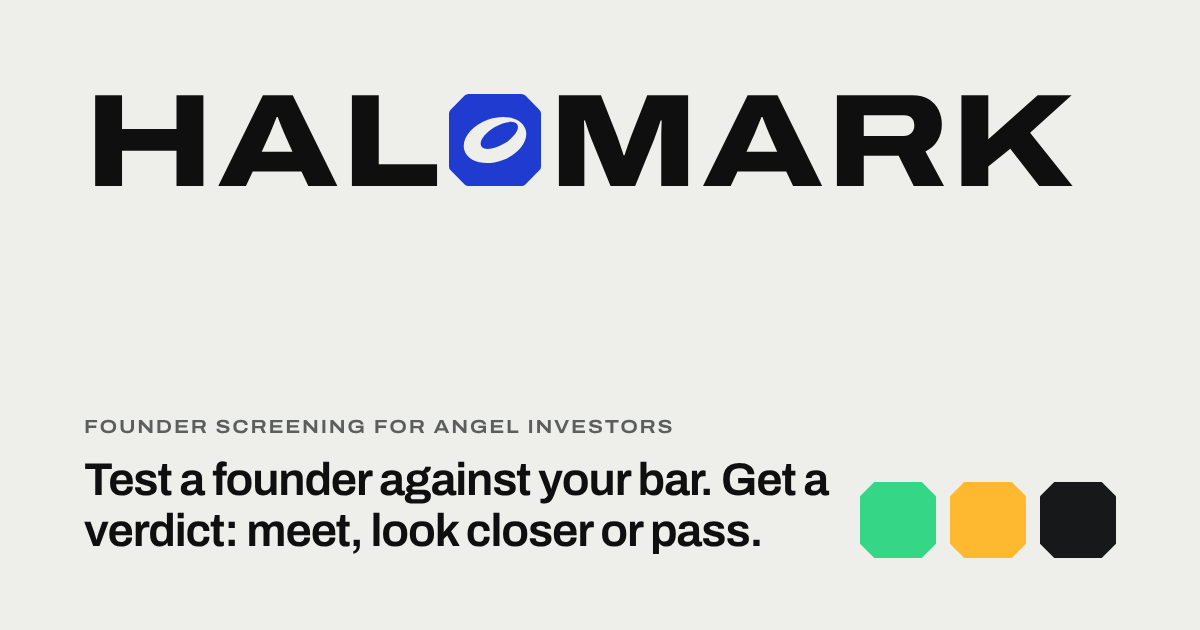
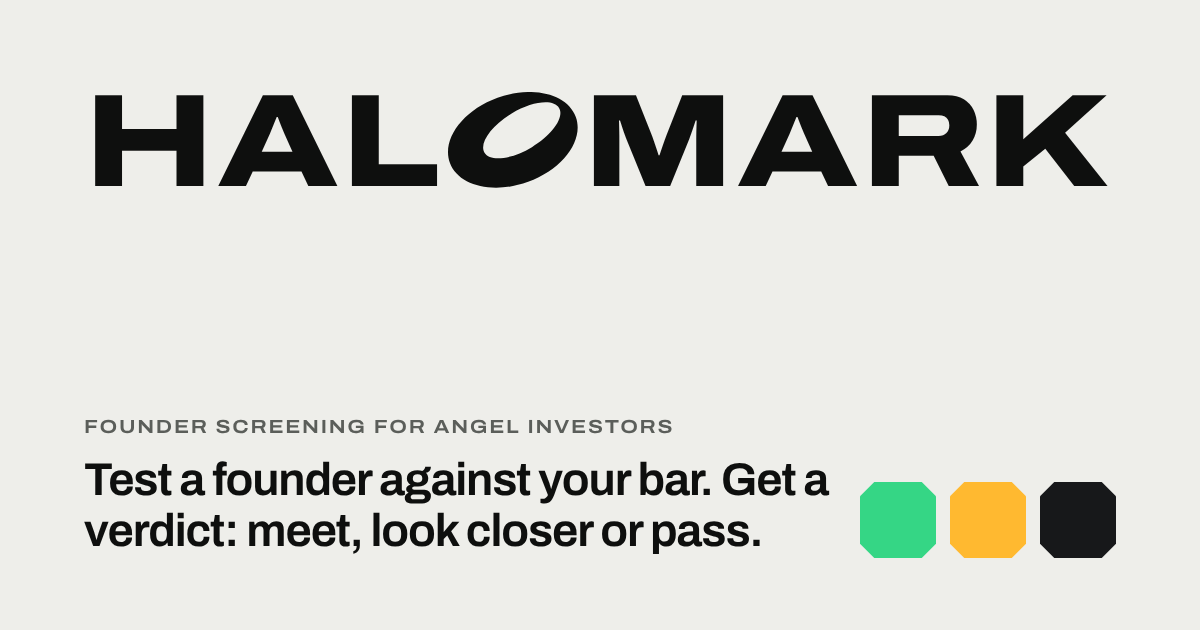
Wordmark: the halo alone as the O, in the text colour
Owner's call: the blue boxed mark stays the app icon, but inside the app
the O of HALOMARK is the bare halo in ink (paper on dark), cleaner in the
header. The halo is cropped to its own bounds and sized like Archivo's O
(cap height plus overshoot). The not-found page and the link-preview
image follow; About still shows the boxed mark where it explains the name.
Screenshots in app/media/09-wordmark-plain-halo.

Claude-Session: https://claude.ai/code/session_018ARa1fSWv5hGJTwrwEkbAE

Changed region(s): [[0.37, 0.1206, 0.925, 0.3016]]

diff --git a/app/frontend/src/app/globals.css b/app/frontend/src/app/globals.css
@@ -6,8 +6,9 @@
   widths: extra-condensed for the big figures, normal for reading, wide capitals for small labels.
   Colour is saved for the verdict: a full-colour slab (green, amber or ink) carries the decision,
   everything around it stays black on paper. Buttons and selections are ink, not a brand hue.
-  The brand is the stamp on the slip: stamp-pad blue (--brand) appears only in the mark, never on
-  controls or verdicts, and the hallmark's cut-corner punch (.punch) is the shape a verdict is struck in.
+  The brand is the stamp on the slip. In the app the name is set in ink with the halo as its O; the full
+  mark (the halo struck into a cut-corner punch, in stamp-pad blue, --brand) is the app icon, and appears
+  in the app only where the About page explains the name. Verdicts are struck in the punch shape (.punch).
   Verdicts always come with an icon and a label; charts keep the validated ramps (dataviz skill).
 */
 :root {
@@ -232,7 +233,7 @@ textarea {
     line-height: 1.2;
     text-transform: uppercase;
   }
-  /* The wordmark: Archivo at its widest, in capitals, with the mark standing in for the O. */
+  /* The wordmark: Archivo at its widest, in capitals, with the halo standing in for the O, in the text colour. */
   .wordmark {
     display: inline-flex;
     align-items: baseline;
@@ -244,10 +245,13 @@ textarea {
     white-space: nowrap;
   }
   .wordmark svg {
-    /* Archivo's capital height, so the punch sits on the baseline and stops at the cap line */
-    width: 0.697em;
-    height: 0.697em;
-    margin: 0 0.05em 0 0.055em;
+    /* Archivo's capital height (0.697em) plus a round letter's overshoot above and below the lines;
+       a flex item's baseline is its bottom edge, so it's moved down by the lower overshoot */
+    height: 0.725em;
+    width: calc(0.725em * 1.355);
+    margin: 0 0.04em 0 0.045em;
+    position: relative;
+    top: 0.014em;
     flex: none;
   }
   /* A hallmark punch: a square with its corners cut. Verdict tiles are struck in this shape. */

diff --git a/app/frontend/src/components/ui.tsx b/app/frontend/src/components/ui.tsx
@@ -5,7 +5,7 @@ import Link from "next/link";
 import { useEffect, useRef, useState, type ReactNode } from "react";
 
 import { IconAlert, IconArrowUpRight, IconChevronLeft, IconMinus, IconX } from "@/components/icons";
-import { MARK_PATH, MARK_SIZE } from "@/lib/mark";
+import { HALO_VIEWBOX, MARK_HALO, MARK_PATH, MARK_SIZE } from "@/lib/mark";
 import type { Decision } from "@/lib/types";
 
 export function cx(...parts: (string | false | null | undefined)[]): string {
@@ -379,14 +379,24 @@ export function Logo({ size = 32, className }: { size?: number; className?: stri
   );
 }
 
-/** The name with the mark as its O. `size` is the type size in pixels. */
+/** The halo on its own, in the current text colour: the O of the wordmark. Height sets its size. */
+export function Halo({ className, style }: { className?: string; style?: React.CSSProperties }) {
+  return (
+    <svg viewBox={HALO_VIEWBOX} className={className} style={style} aria-hidden>
+      <path d={MARK_HALO} fill="currentColor" fillRule="evenodd" />
+    </svg>
+  );
+}
+
+/**
+ * The name with the halo as its O, all in the text colour. Inside the app the halo stands alone; the
+ * punch around it belongs to the app icon. `size` is the type size in pixels.
+ */
 export function Wordmark({ size = 17 }: { size?: number }) {
   return (
     <span role="img" aria-label="Halomark" className="wordmark" style={{ fontSize: size }}>
       <span aria-hidden>HAL</span>
-      <svg viewBox={`0 0 ${MARK_SIZE} ${MARK_SIZE}`} className="text-brand" aria-hidden>
-        <path d={MARK_PATH} fill="currentColor" fillRule="evenodd" />
-      </svg>
+      <Halo />
       <span aria-hidden>MARK</span>
     </span>
   );

diff --git a/app/frontend/src/lib/mark.ts b/app/frontend/src/lib/mark.ts
@@ -25,6 +25,12 @@ export const MARK_HALO = MARK_HALO_OUTER + MARK_HALO_INNER;
 /** The whole mark in one colour (the halo is cut out of the punch): fill with fill-rule="evenodd". */
 export const MARK_PATH = MARK_PUNCH + MARK_HALO;
 
+/**
+ * The halo's own bounds (the outer ellipse, measured): use as the viewBox when the halo stands alone as a
+ * letter, the O of the wordmark. Wider than tall (1.355 : 1), like Archivo's wide O.
+ */
+export const HALO_VIEWBOX = "10.24 15.94 43.52 32.12";
+
 /** Brand colours: stamp-pad blue on paper. Kept here for the icons; the app reads them from globals.css. */
 export const BRAND_BLUE = "#1f3bd0";
 export const BRAND_BLUE_ON_DARK = "#8fa0ff";

diff --git a/app/frontend/src/app/not-found.tsx b/app/frontend/src/app/not-found.tsx
@@ -1,12 +1,12 @@
 import Link from "next/link";
 
-import { Logo, Page, PageHeader, linkClass } from "@/components/ui";
+import { Halo, Page, PageHeader, linkClass } from "@/components/ui";
 
 export default function NotFound() {
   return (
     <Page>
       <div className="pt-16">
-        <Logo size={40} className="mb-6" />
+        <Halo className="mb-6 h-8 w-auto text-ink" />
         <PageHeader title="Not found" subtitle="This page doesn't exist, or the memo has expired. Memos are kept only for a while." />
         <Link href="/" className={linkClass}>
           Back to your founders

diff --git a/app/media/README.md b/app/media/README.md
@@ -119,7 +119,7 @@ Contents of each version folder:
   - `capture-test-2x.jpg`, the test frame that showed the 2× capture works
 - `v4-halomark/`: the video, a strip of stills and one full-size frame at 1s
 
-## 08-halomark-brand (16:30–16:40) · Current
+## 08-halomark-brand (16:30–16:40) · Current for the app icon; the in-app wordmark changed in 09
 
 The product was renamed **Halomark**: a halo for angels, and close to *hallmark*, the stamp that certifies tested gold.
 A Claude Fable 5.2 design agent made the identity.
@@ -142,7 +142,19 @@ A Claude Fable 5.2 design agent made the identity.
 - `desktop-home-light.png`, `desktop-home-dark.png`
 - **Sent:** `brand-board.png`, `directions.png`, `phone-home-light.png`, `phone-memo-dark.png`, `phone-about-name-light.png`
 
-## tools
+## 09-wordmark-plain-halo (16:55–17:05) · Current
+
+The owner's change: the app icon keeps the halo in its blue octagonal punch, but inside the app the O of
+HALOMARK is the halo alone, in the same colour as the letters.
+- `phone-header-*.png`, `desktop-sidebar-*.png`: the wordmark at its real sizes (17px on phones, 21px on desktop), light and dark
+- `phone-home-*.png`, `desktop-home-*.png`: the whole home screen with it
+- `phone-not-found-*.png`: the not-found page, which now shows the halo instead of the boxed mark
+- `wordmark-large-vs-real-O.png`: the wordmark at 120px above Archivo's own O, used to match the halo's height and overshoot to a real letter
+- `link-preview-image.png`: the link-preview image, regenerated with the same wordmark
+- **Sent:** `phone-header-light.png`, `desktop-sidebar-dark.png`, `phone-home-dark.png`, `wordmark-large-vs-real-O.png`
+
+The walk-through video (07, v4) and the brand board (08) still show the earlier boxed O in the header.
+
 
 - `record-walkthrough.cjs`: the script that recorded v3 and v4, with the ffmpeg command in its header, so the video can be re-shot after design changes
 - `walkthrough-batch.csv`: the three example founders it pastes into "Screen a list"

diff --git a/app/README.md b/app/README.md
@@ -75,9 +75,10 @@ on phones, a sidebar on desktop, light and dark themes):
   skill's palette validator against both themes' surfaces.
 - **Brand: Halomark** (renamed from Screener on 2026-11-14; identity by a Claude Fable 5.2 design pass). The mark is a
   hallmark punch (the cut-corner stamp an assay office strikes into tested gold) with an angel's halo struck into
-  it, and it stands in for the O in the wordmark, HAL◯MARK (Archivo at its widest width, weight 800, capitals).
-  Stamp-pad blue (`--brand`, `#1f3bd0`; `#8fa0ff` on dark) appears only in the mark and the app icon, never on
-  controls or verdicts; verdict tiles are struck in the same cut-corner shape (`.punch`). The geometry lives
+  it, used as the app icon in stamp-pad blue (`#1f3bd0`). Inside the app the name is HAL◯MARK (Archivo at its
+  widest width, weight 800, capitals) with the halo alone as its O, in the text colour (owner's call: cleaner than
+  the boxed mark in the header). The boxed mark appears in the app only where About explains the name; verdict
+  tiles are struck in the same cut-corner shape (`.punch`). The geometry lives
   once in `src/lib/mark.ts`; `node scripts/make-brand-assets.cjs` (after `next build`) regenerates every icon,
   the SVG favicon and the link-preview image from it. Internal names stay `screener` (the backend package,
   `SCREENER_ANTHROPIC_API_KEY`, storage keys), so nothing on the hosts changes.

diff --git a/app/HANDOFF.md b/app/HANDOFF.md
@@ -86,6 +86,8 @@ or real research on the hosted backend (`AGENT=claude` plus the key, about $0.25
   `app/media/08-halomark-brand/directions.png`. The blue is the main judgement call: an ink-only mark is the
   fallback (`--brand` in globals.css and the colours in `src/lib/mark.ts`, then rerun the icon script).
   User-visible names only: `screener` stays as the backend package, env var and storage-key prefix.
+  **Wordmark (owner, 2026-11-14):** in the app the O is the halo alone, in the text colour, not the blue boxed
+  mark; the boxed mark is the app icon (and the illustration in About's "The name").
 - **Verdict labels for angels (owner, 2026-11-14): "Meet / Look closer / Pass"** on screen, replacing "Advance /
   Escalate / Pass" (fund language: a solo angel has nobody to escalate to). Display only: the contract,
   backend, policy and research keep `advance` / `escalate` / `pass` as the internal values. MASTER_PLAN still
